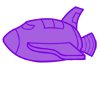
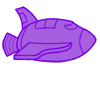
ship can be controlled with arrow keys

Changed region(s): [[0.0, 0.0674, 0.99, 0.7191]]

diff --git a/Shoot em Up/Shoot em Up/Game/GameObjects/Player.cs b/Shoot em Up/Shoot em Up/Game/GameObjects/Player.cs
@@ -63,21 +63,29 @@ namespace Shoot_em_Up
                        break;
                     
                }*/
-            if (k == Keyboard.Key.Right && this.rigidBody.AngularVelocity != .5f)
+            this.rigidBody.AngularVelocity = 0;
+            if (this.rigidBody.Orientation > 0)
+                this.rigidBody.Orientation -= 0.01f;
+            if (this.rigidBody.Orientation < 0)
+                this.rigidBody.Orientation += 0.01f;
+            if (k == Keyboard.Key.Right )
             {
-                this.rigidBody.AngularVelocity = .5f;
+                this.rigidBody.Velocity = new Vector2f(this.speed, 0);
+                
             }
-            else if (k == Keyboard.Key.Left && this.rigidBody.AngularVelocity != -.5f)
+            else if (k == Keyboard.Key.Left)
             {
-                this.rigidBody.AngularVelocity = -.5f;
+                this.rigidBody.Velocity = new Vector2f(-this.speed,0);
             }
             if (k == Keyboard.Key.Up)
             {
-                this.rigidBody.Velocity = new Vector2f(0, -this.speed);
+                this.rigidBody.Velocity = new Vector2f(this.rigidBody.Velocity.X, -this.speed);
+
             }
             else if (k == Keyboard.Key.Down)
             {
-                this.rigidBody.Velocity = new Vector2f(0, this.speed);
+                this.rigidBody.Velocity = new Vector2f(this.rigidBody.Velocity.X, this.speed);
+
             }
             this.rigidBody.Velocity = this.rigidBody.WorldTransform * this.rigidBody.Velocity;
         }

diff --git a/Shoot em Up/Shoot em Up/Game/Game.cs b/Shoot em Up/Shoot em Up/Game/Game.cs
@@ -24,12 +24,14 @@ namespace Shoot_em_Up
         public static int HEIGHT;
         public static Faction[] factions;
         private int level;
+        public Player player;
         public Game(int width, int height)
         {
             WIDTH = width;
             HEIGHT = height;
             Level = 1;
-            Add(new Player(factions[1], new Vector2f(100,100), "../Content/cuteship", new int[]{100,89}, new int[]{100,89}));
+            this.player = new Player(factions[1], new Vector2f(100,100), "../Content/cuteship", new int[]{100,89}, new int[]{100,89});
+            Add(this.player);
         }
 
         public static void Add(GameObject obj)
@@ -151,6 +153,11 @@ namespace Shoot_em_Up
                 window.Draw(obj.drawable, new RenderStates(t));
                // window.Draw(obj.rigidBody as Shape, new RenderStates(t));
             }
+        }
+
+        public void MovePlayer(Keyboard.Key k)
+        {
+            this.player.Move(k);
         }
 
     }

diff --git a/Shoot em Up/Shoot em Up/Game/Program.cs b/Shoot em Up/Shoot em Up/Game/Program.cs
@@ -99,7 +99,7 @@ namespace Shoot_em_Up
 
         private static void ReadInput()
         {
-        /*    if (Keyboard.IsKeyPressed(Keyboard.Key.Left))
+           if (Keyboard.IsKeyPressed(Keyboard.Key.Left))
             {
                 sEmUp.MovePlayer(Keyboard.Key.Left);
             }
@@ -115,8 +115,8 @@ namespace Shoot_em_Up
             }
             if (Keyboard.IsKeyPressed(Keyboard.Key.Space))
             {
-                sEmUp.Fire();
-            }*/
+                //sEmUp.Fire();
+            }
         }
 
         #region Listener
